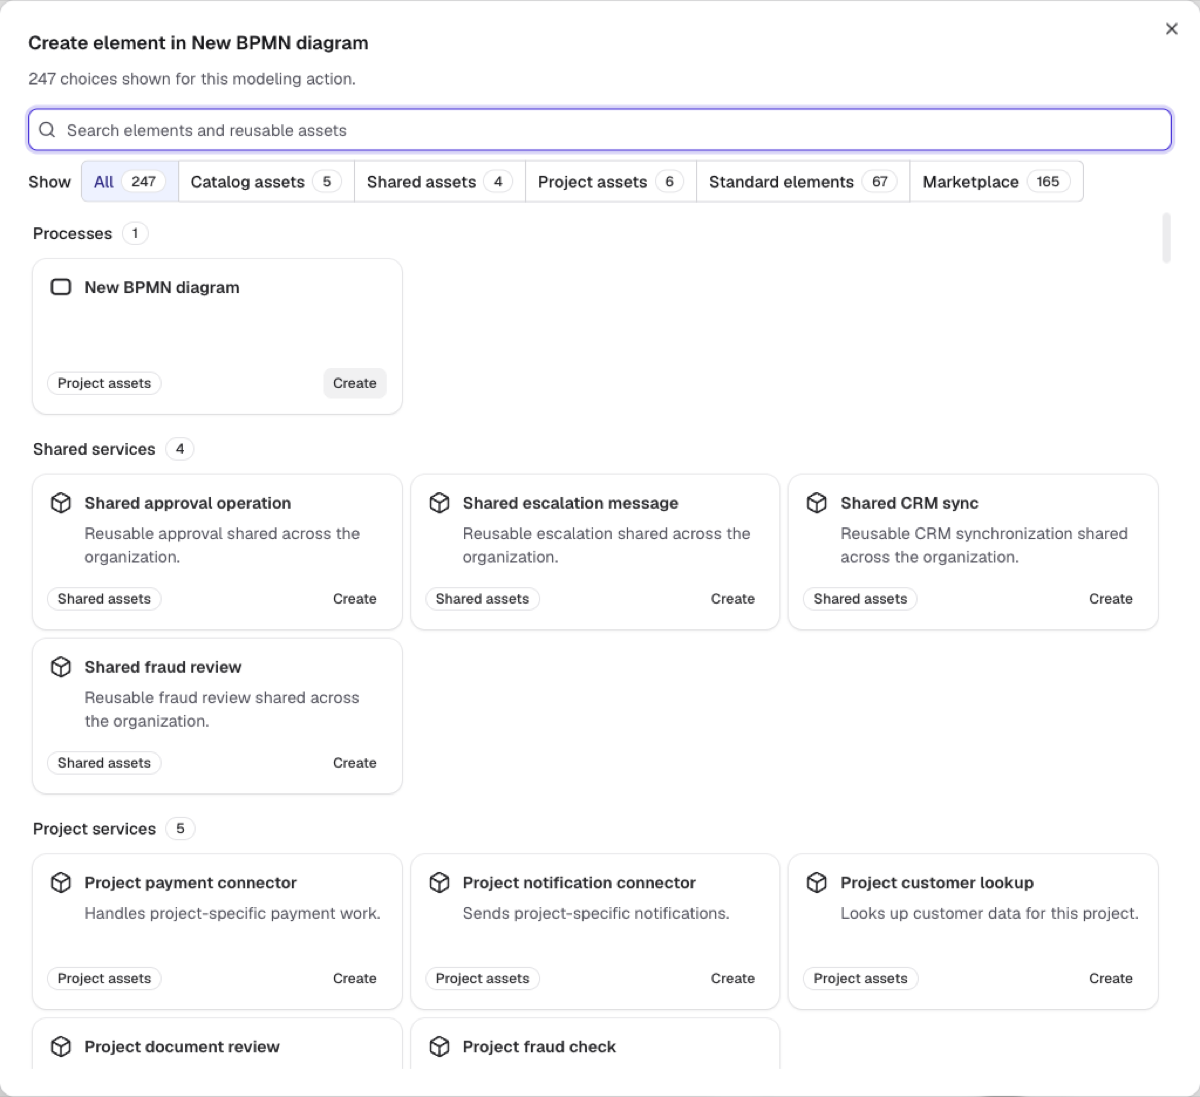
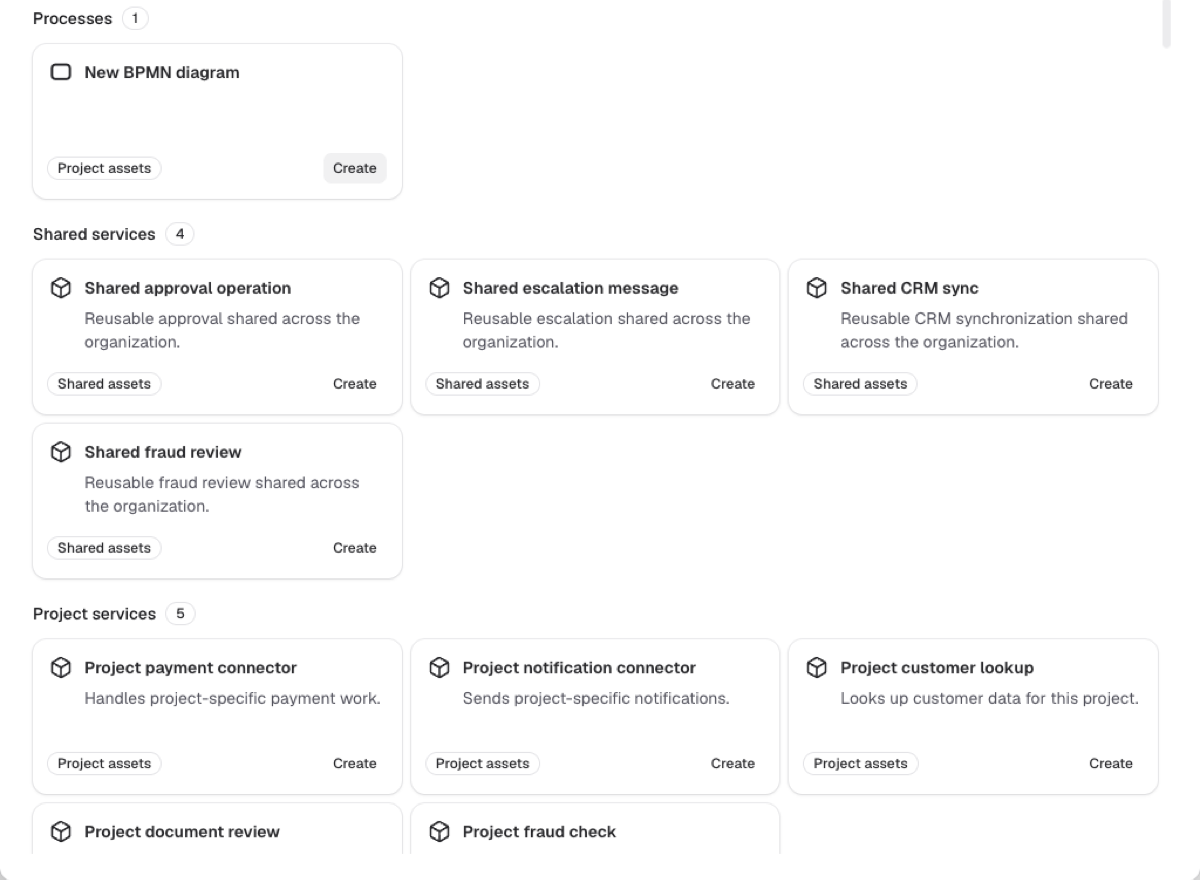
docs(hub): align Browse all guidance and screenshots with final implementation

diff --git a/docs/components/hub/workspace/modeler/modeling/browse-all-resources.md b/docs/components/hub/workspace/modeler/modeling/browse-all-resources.md
@@ -22,8 +22,6 @@ The dialog title identifies the action and target. Each card uses the correspond
 
 **Browse all** appears when the contextual menu offers a broad set of choices. If it isn't offered, use the choices in the compact menu. The compact menu can also provide a direct Marketplace action.
 
-![Browse all showing the search field, source choices with counts, and resource cards](./img/browse-all-resources.png)
-
 ## Search and filter resources
 
 The search field and **Show** control narrow the cards available for the current modeling action.
@@ -37,16 +35,18 @@ The **Show** control contains **All** and the sources available in your environm
 
 | Source                | Contents                                                                                                                                                                                    | Availability                                                                                                                                                                          |
 | --------------------- | ------------------------------------------------------------------------------------------------------------------------------------------------------------------------------------------- | ------------------------------------------------------------------------------------------------------------------------------------------------------------------------------------- |
-| **Catalog assets**    | Governed assets published through the [Camunda catalog](/components/hub/organization/manage-catalog/getting-started.md).                                                                    | Appears when the catalog is enabled and matching assets are available.                                                                                                                |
-| **Shared assets**     | Element templates published directly to your organization's shared resources. This source is separate from the catalog.                                                                     | Appears when matching shared templates are available.                                                                                                                                 |
+| **Catalog**           | Governed assets published through the [Camunda catalog](/components/hub/organization/manage-catalog/getting-started.md).                                                                    | Appears when the catalog is enabled and matching assets are available.                                                                                                                |
+| **Shared**            | Element templates published directly to your organization's shared resources. This source is separate from the catalog.                                                                     | Appears when matching shared templates are available.                                                                                                                                 |
 | **Project assets**    | Templates and connectors published or added to the current project, plus linked project resources such as forms, called processes, decisions, and robotic process automation (RPA) scripts. | Appears when matching project resources are available.                                                                                                                                |
 | **Built-in**          | Camunda's built-in connectors.                                                                                                                                                              | Appears when built-in connectors are available. This source isn't available in Self-Managed.                                                                                          |
 | **Standard elements** | The untemplated BPMN vocabulary valid for the current action, including tasks, gateways, events, and other native modeling choices.                                                         | Appears when matching standard BPMN elements are available.                                                                                                                           |
 | **Marketplace**       | Connectors from Camunda Marketplace.                                                                                                                                                        | Appears when Marketplace supports the current action. A Self-Managed administrator can [disable Marketplace](/self-managed/components/hub/configuration/properties.md#feature-flags). |
 
+Resource cards identify catalog and shared provenance with the **Catalog assets** and **Shared assets** badges.
+
 A source with no matches is hidden. If a search reduces the active source to zero matches, the source remains selected with a count of zero so your filter doesn't change unexpectedly.
 
-![Browse all filtered to Project assets, with Processes and Project services groups](./img/browse-all-project-assets.png)
+![Browse all results grouped into processes, shared services, and project services](./img/browse-all-resources.png)
 
 ## Use a resource
 
@@ -62,7 +62,7 @@ Marketplace is the final section and contains the complete collection that match
 
 Browsing, filtering, searching, or scrolling Marketplace cards doesn't check which connectors are already in your project. Select **View details** on a connector to check only that connector and review its project availability.
 
-For create and append actions, Marketplace results aren't filtered by BPMN type. For a supported change-element action, results are filtered by the selected element's BPMN type only. Configuration requirements and runtime compatibility can still vary.
+For create and append actions, Marketplace results aren't filtered by BPMN type. For a supported change-element action, results are filtered by Marketplace's supported BPMN type only. Task variants, such as user and service tasks, are grouped as task connectors. Configuration requirements and runtime compatibility can still vary.
 
 A self-hosted connector card opens **View setup instructions** instead of connector details. Follow the linked setup guide to make the connector available in your environment.
 

diff --git a/docs/components/hub/workspace/modeler/element-templates/use-catalog-assets.md b/docs/components/hub/workspace/modeler/element-templates/use-catalog-assets.md
@@ -41,7 +41,7 @@ When you create, append, or change an element, the compact menu separates what y
 
 For the preferred cross-source view, select **Browse all** at the top of the menu. The [resource discovery guide](../modeling/browse-all-resources.md) explains how to search and filter catalog, shared, and project assets alongside standard elements and Marketplace connectors.
 
-To insert a catalog asset, select **Browse all > Catalog assets**, then select the asset. If **Browse all** isn't offered, open the **Reusable assets** tab and select the asset. This creates a new element with the template already applied.
+To insert a catalog asset, select **Browse all > Catalog**, then select the asset. If **Browse all** isn't offered, open the **Reusable assets** tab and select the asset. This creates a new element with the template already applied.
 
 To apply a template to an element that already exists, use **Change element** from the context pad or follow [apply assets while modeling](#apply-assets-while-modeling).
 

diff --git a/docs/components/hub/workspace/modeler/modeling/importing-resources.md b/docs/components/hub/workspace/modeler/modeling/importing-resources.md
@@ -32,7 +32,8 @@ These are the supported methods you can use to add files to Camunda Hub:
 :::note
 
 - **Import** and **Browse blueprints**: If the imported resources include at least one BPMN file, Camunda Hub treats them as a project and groups them accordingly.
-- **Upload files** and **Browse all**: Always treat files as independent files, regardless of whether BPMN files are present.
+- **Upload files**: Adds uploaded resources as independent files, regardless of whether BPMN files are present.
+- **Browse all**: Adds selected connector element templates to the current project.
 
 :::
 
